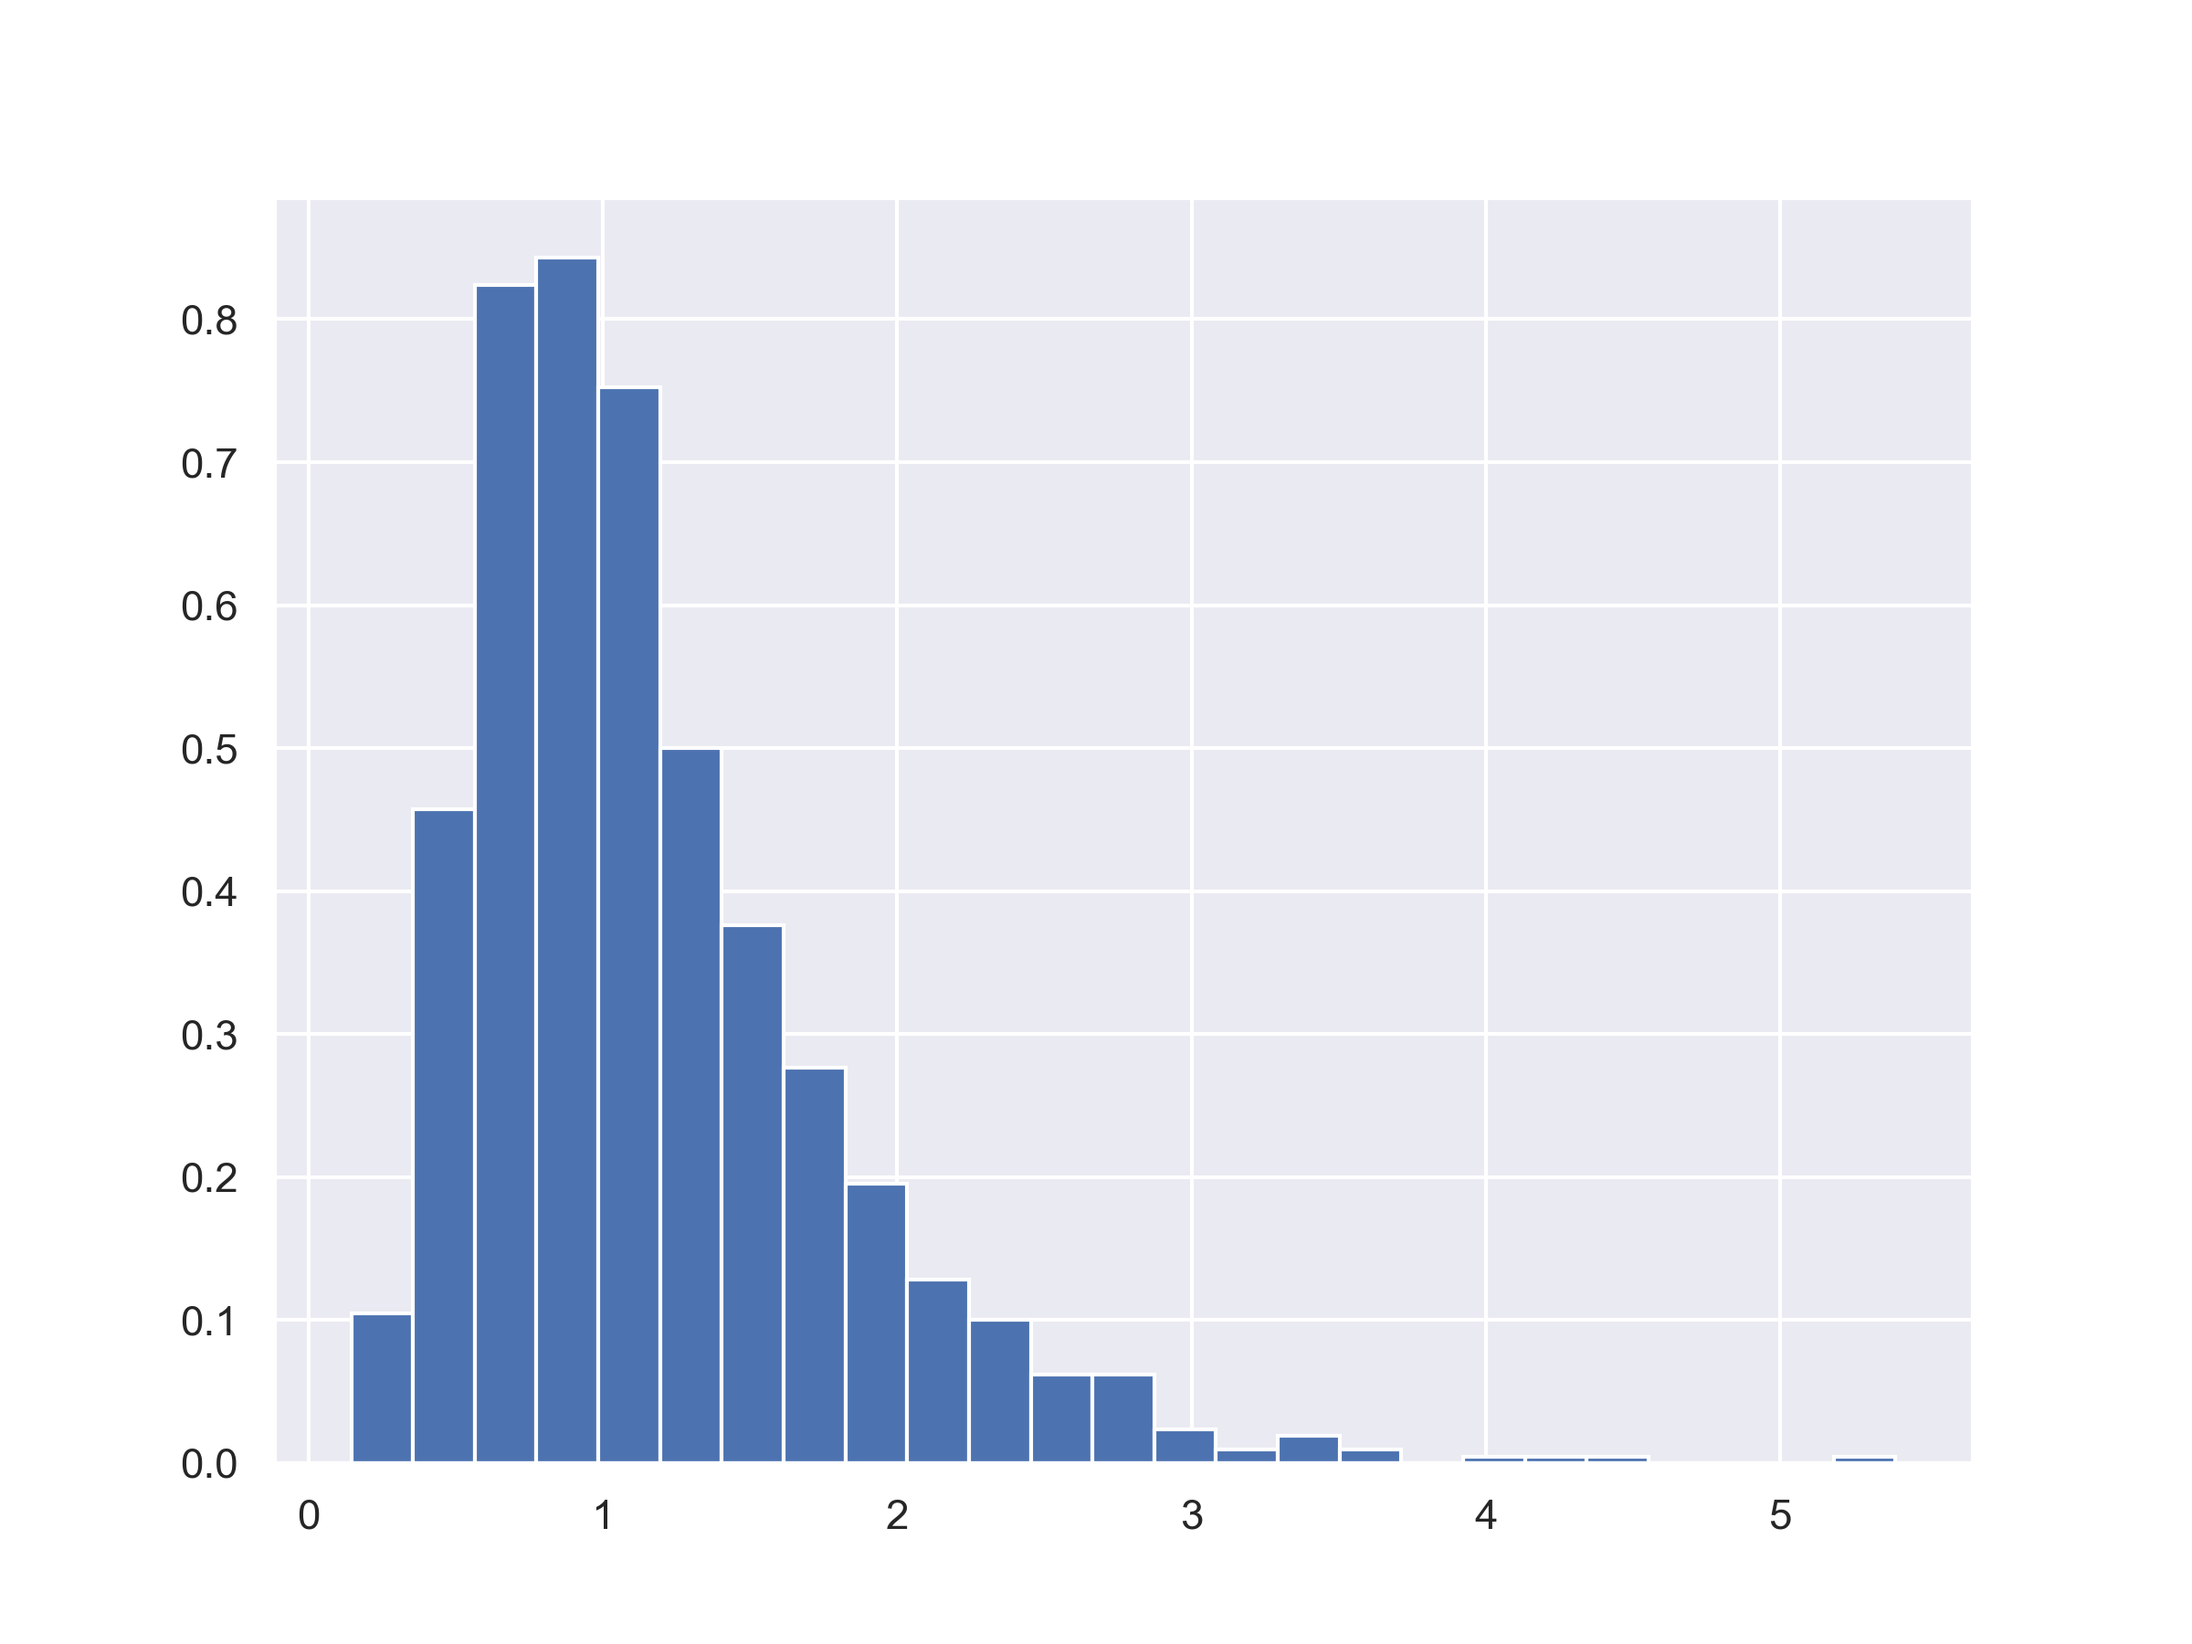
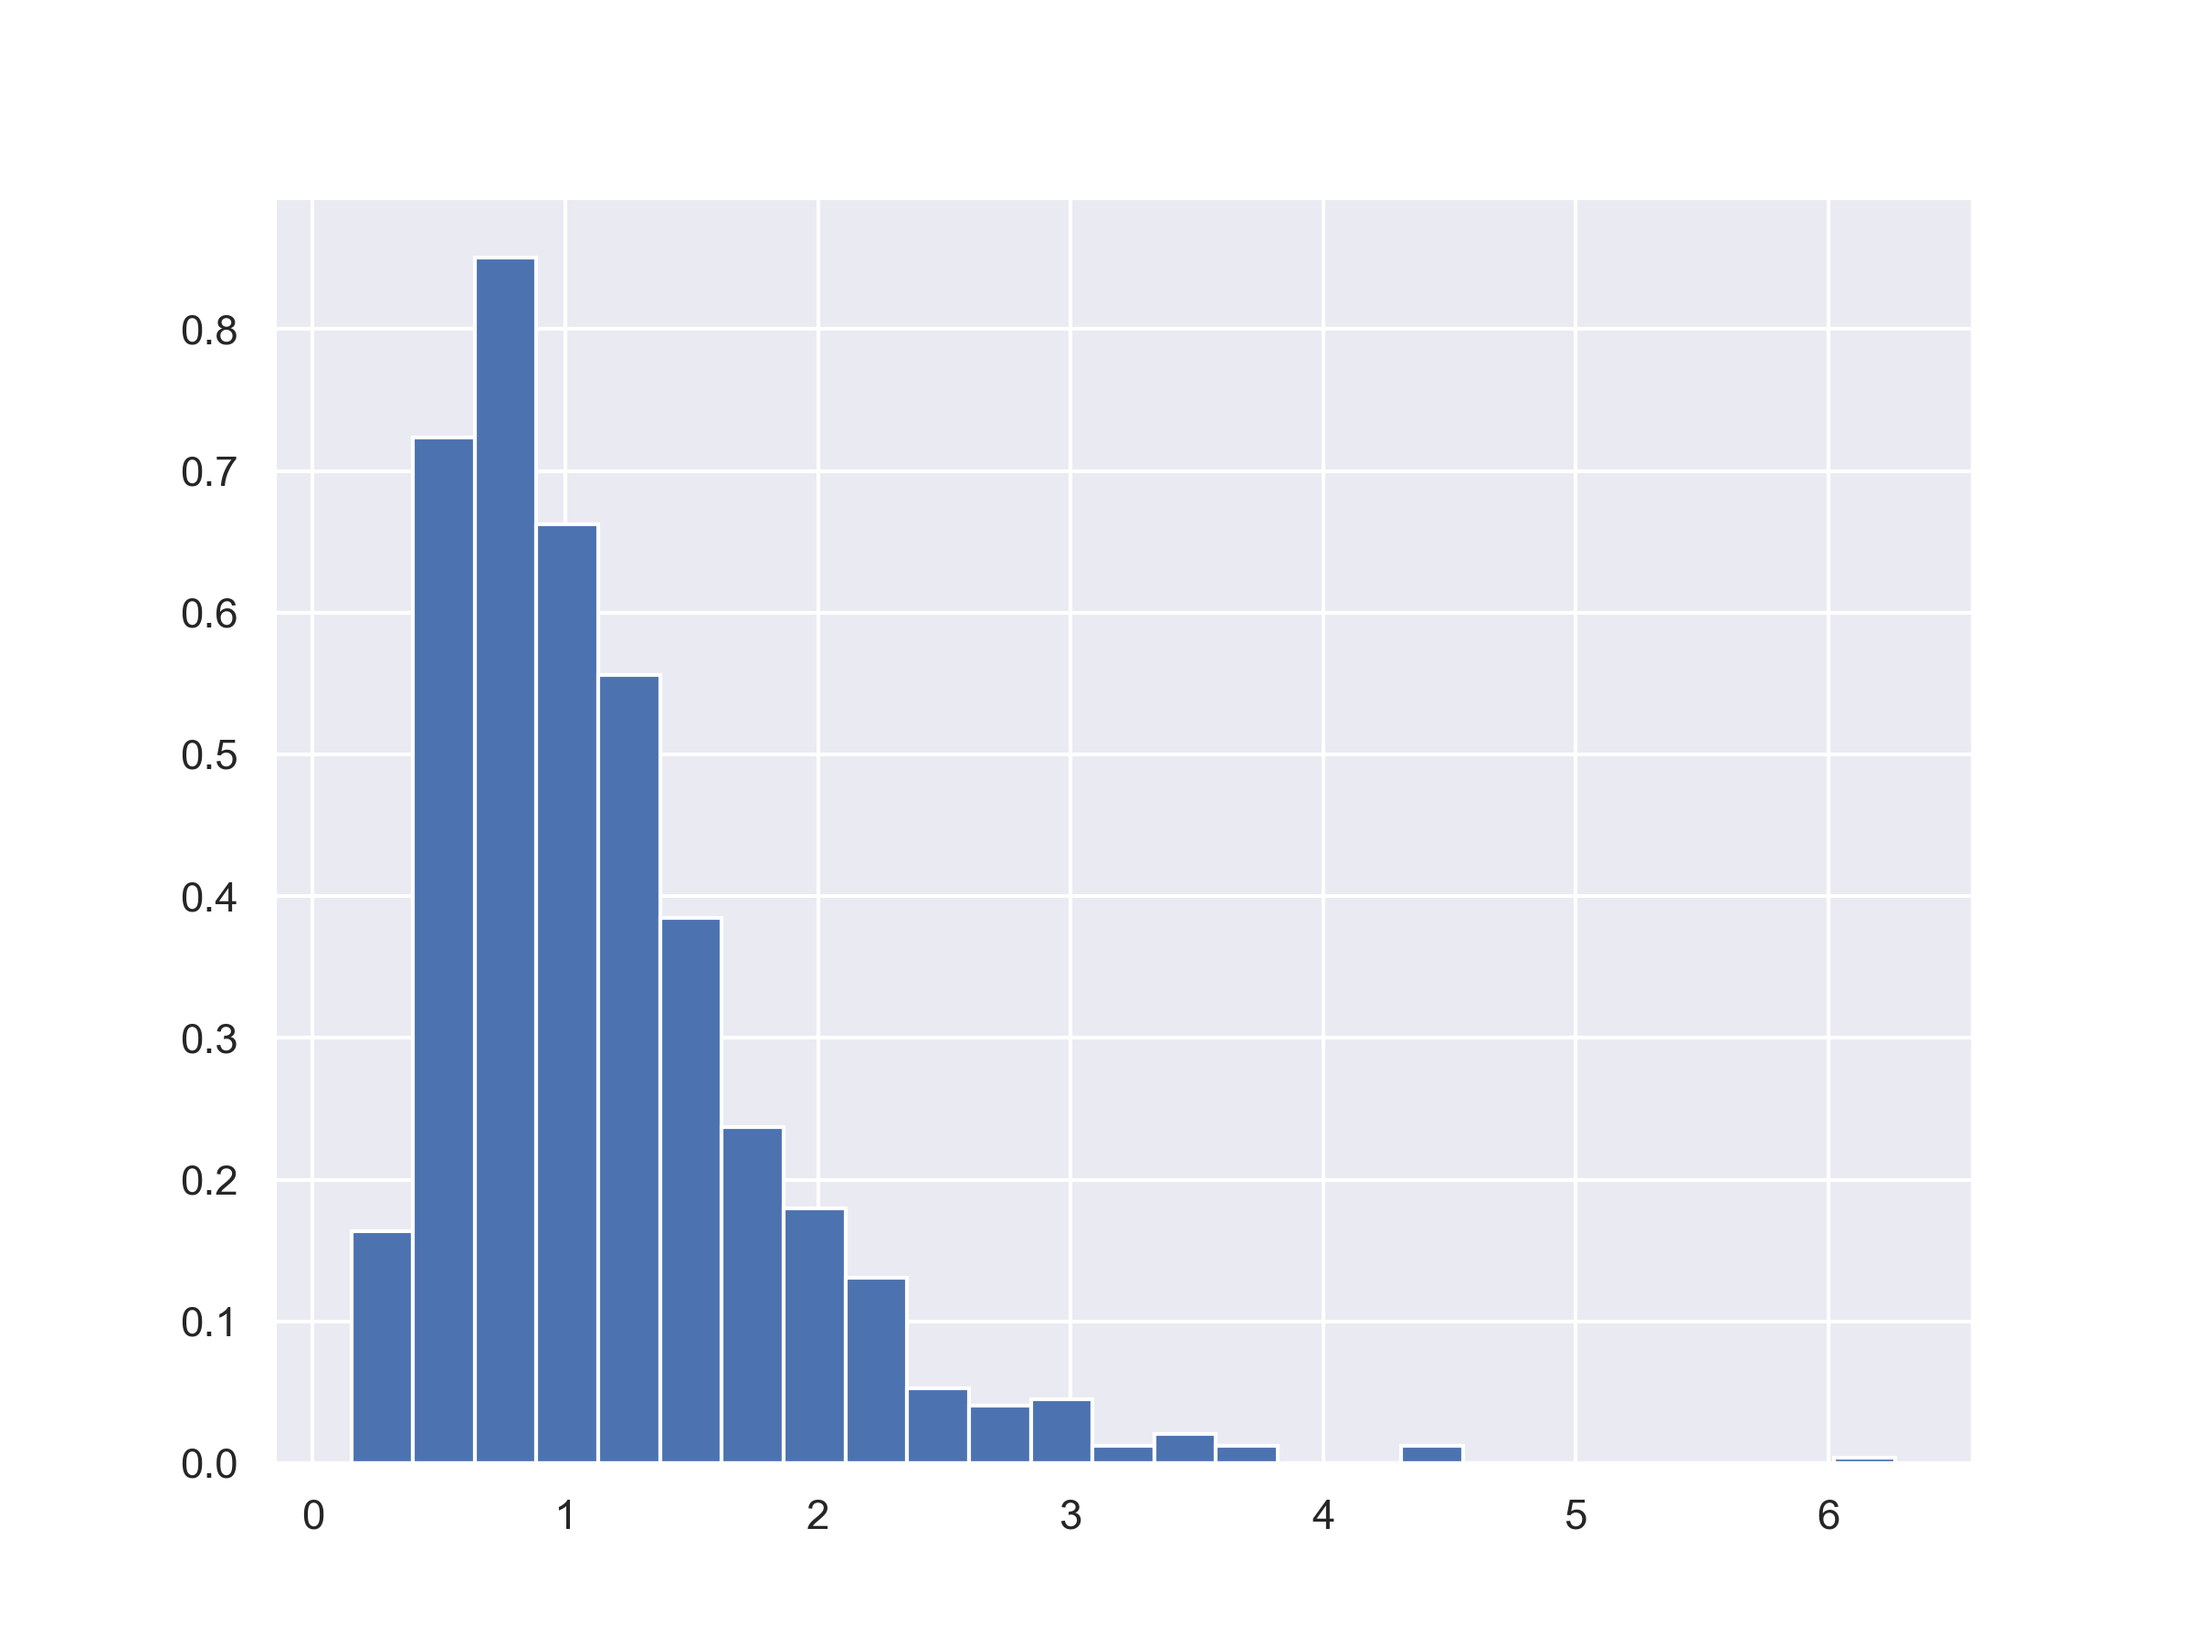
done up to Qestion 1

diff --git a/HW3/mtQuantMacro3.py b/HW3/mtQuantMacro3.py
@@ -21,6 +21,7 @@ from tabulate import tabulate
 from random import randrange, seed
 
 
+
 class SIMModel:
     def __init__(self,
                  rho       = 0.9900,
@@ -43,13 +44,25 @@ class SIMModel:
         self.Omega     = Omega
         self.age_list  = age_list
         self.n_samples = n_samples
-
-    def tauchen_discretize(self,
+        
+    def discretize(self, method,
                 is_save_y_grid = True,
-                is_save_trans_mat = True):
+                is_save_trans_mat = True): 
+        if method in ['tauchen', 'Tauchen', 'T', 't']:
+            print("\n Dscretizing the AR(1) process by Tauchen method")
+            self.tauchen_discretize(is_save_y_grid, is_save_trans_mat)
+        
+        elif method in ['rouwenhorst', 'Rouwenhorst', 'R', 'r']:
+            print("\n Dscretizing the AR(1) process by Rouwenhorst method")
+            self.rouwenhorst_discretize(is_save_y_grid, is_save_trans_mat)
+            
+        else:
+            raise Exception('"method" input much be "Tauchen" or "Rouwenhorst."')
+        
+        
+    def tauchen_discretize(self, is_save_y_grid, is_save_trans_mat):
         # Prepare y gird points
-        sig_y21 = np.sqrt(self.var_eps / (1-self.rho**2))
-        y_N     = self.Omega * sig_y21
+        y_N     = self.Omega * self.sig_y20
         y_grid  = np.linspace(-y_N, y_N, self.n_grids)
         Y_grid  = np.exp(y_grid)
 
@@ -78,9 +91,51 @@ class SIMModel:
             trans_mat_ij = ( norm.cdf((y_grid[j] - self.rho*y_grid[i] + h/2)/self.sig_eps)
                            - norm.cdf((y_grid[j] - self.rho*y_grid[i] - h/2)/self.sig_eps))
         return trans_mat_ij
+        
+        
+    def rouwenhorst_discretize(self, is_save_y_grid, is_save_trans_mat):
+        # Prepare y gird points
+        y_N     = self.sig_y20 * np.sqrt(self.n_grids - 1)
+        y_grid  = np.linspace(-y_N, y_N, self.n_grids)
+        Y_grid  = np.exp(y_grid)
+        
+        # Calculate the step size
+        h = (2 * y_N)/(self.n_grids-1)
+        
+        # parameter necessary for Rouwenhorst recursion
+        pi = 0.5 * (1 + self.rho)
+        
+        # N = 2
+        Pi_N = np.array([[pi, 1 - pi],
+                         [1 - pi, pi]])
+        
+        for n in range(3, self.n_grids+1, 1):
+            Pi_pre = deepcopy(Pi_N)
+            Pi_N1  = np.zeros((n,n))
+            Pi_N2  = np.zeros((n,n))
+            Pi_N3  = np.zeros((n,n))
+            Pi_N4  = np.zeros((n,n))
+            
+            Pi_N1[0:n-1, 0:n-1] = Pi_pre
+            Pi_N2[0:n-1, 1:n] = Pi_pre
+            Pi_N3[1:n, 1:n] = Pi_pre
+            Pi_N4[1:n, 0:n-1] = Pi_pre
+            
+            Pi_N = (pi * Pi_N1
+                    + (1 - pi) * Pi_N2
+                    + pi * Pi_N3
+                    + (1 - pi) * Pi_N4
+            )
+        
+        self.Y_grid = Y_grid
+        self.y_grid = y_grid
+        self.trans_mat = Pi_N
+        self.step_size = h
+
+        return y_grid, Pi_N
     
     
-    def run_simulation(self, fixed_seed=None):
+    def run_simulation(self, fname_header='model', fixed_seed=None):
         if fixed_seed != None:
             np.random.seed(fixed_seed)
         
@@ -93,7 +148,7 @@ class SIMModel:
         # -+-+-+-+-+-+-+-+-+-+-+-+-+-+-+-+-+-+-+-+-+-+-+-+-+-+-+-+-+-+-+-+-+-+
         fig0 = plt.figure(figsize=(8, 6))
         plt.hist(Y20_samples, bins=25, density=True)
-        fig0.savefig('Sample_histgram.png', dpi=300)
+        fig0.savefig(fname_header+'_Sample_histgram.png', dpi=300)
 
         
         # -+-+-+-+-+-+-+-+-+-+-+-+-+-+-+-+-+-+-+-+-+-+-+-+-+-+-+-+-+-+-+-+-+-+
@@ -119,7 +174,7 @@ class SIMModel:
         plt.vlines(1, 0, 1, color='black', linewidth = 0.5, 
                    linestyles='--')
         plt.legend(frameon = False)
-        fig1.savefig('Lorenz_Y20_original.png', dpi=300)
+        fig1.savefig(fname_header+'_Lorenz_Y20_original.png', dpi=300)
 
         # -+-+-+-+-+-+-+-+-+-+-+-+-+-+-+-+-+-+-+-+-+-+-+-+-+-+-+-+-+-+-+-+-+-+
         # Calculate the probability of each grid point
@@ -137,7 +192,7 @@ class SIMModel:
         fig2 = plt.figure(figsize=(8, 6))
         plt.bar(self.Y_grid, m20)
 
-        fig2.savefig('PDF_Y20.png', dpi=300)
+        fig2.savefig(fname_header+'_PDF_Y20.png', dpi=300)
 
         self.m20 = m20
         
@@ -158,7 +213,7 @@ class SIMModel:
         plt.vlines(1, 0, 1, color='black', linewidth = 0.5, 
                    linestyles='--')
         plt.legend(frameon = False)
-        fig3.savefig('Lorenz_Y20.png', dpi=300)
+        fig3.savefig(fname_header+'_Lorenz_Y20.png', dpi=300)
 
 
         # -+-+-+-+-+-+-+-+-+-+-+-+-+-+-+-+-+-+-+-+-+-+-+-+-+-+-+-+-+-+-+-+-+-+
@@ -203,7 +258,7 @@ class SIMModel:
         plt.vlines(1, 0, 1, color='black', linewidth = 0.5, 
                    linestyles='--')
         plt.legend(frameon = False)
-        fig4.savefig('Lorenz_groups.png', dpi=300)
+        fig4.savefig(fname_header+'_Lorenz_groups.png', dpi=300)
         
         # -+-+-+-+-+-+-+-+-+-+-+-+-+-+-+-+-+-+-+-+-+-+-+-+-+-+-+-+-+-+-+-+-+-+
         # Compute the Gini coefficient for each age
@@ -214,10 +269,11 @@ class SIMModel:
         self.Lorenz_by_age = Lorenz_by_age
         Gini_by_age =[self.discrete_Gini_index(Lorenz_by_age[a])
                       for a in range(n_ages)]
-        self.Gini_by_age =Gini_by_age
+        self.Gini_by_age = Gini_by_age
+        
         fig5 = plt.figure(figsize = (8, 6))
         plt.plot(self.age_list, Gini_by_age, color='red', lw = 3)
-        fig5.savefig('Gini_coefficients_by_age.png', dpi=300)
+        fig5.savefig(fname_header+'_Gini_coefficients_by_age.png', dpi=300)
         
     def discrete_Lorenz_curve(self, distribution):
         if type(distribution) is list:
@@ -249,3 +305,5 @@ class SIMModel:
         return Gini_index
         
         
+
+    

diff --git a/HW3/main.py b/HW3/main.py
@@ -15,9 +15,41 @@ Create Sep 20, 2022 (Masaki Tanaka, Washington University in St. Louis)
 """
 
 from mtQuantMacro3 import SIMModel
+import matplotlib.pyplot as plt
+import seaborn as sns
+sns.set()
 
-tauchen = SIMModel()
-tauchen.tauchen_discretize()
-tauchen.run_simulation()
+model_T = SIMModel()
+model_T.discretize(method='Tauchen')
+model_T.run_simulation(fname_header='Tauchen')
 
+model_R = SIMModel()
+model_R.discretize(method='Rouwenhorst')
+model_R.run_simulation(fname_header='Rouwenhorst')
+
+fig1 = plt.figure(figsize=(8, 6))
+plt.plot(model_T.age_list, model_T.Gini_by_age, 
+             color='blue', linestyle='dashed',
+             label='Tauchen')
+plt.plot(model_R.age_list, model_R.Gini_by_age, 
+             color='red', label='Rouwehhorst')
+fig1.savefig('Comparison_Gini.png', dpi=300)
+
+fig2 = plt.figure(figsize=(8, 6))
+plt.plot(model_T.Lorenz_by_age[-1][0], 
+         model_T.Lorenz_by_age[-1][0], 
+         '-', linewidth = 0.5, color = 'green', label='perfect equality')
+plt.plot(model_T.Lorenz_by_age[-1][0], 
+         model_T.Lorenz_by_age[-1][1], 
+         color='blue', linestyle='dashed',
+         label='Tauchen')
+plt.plot(model_R.Lorenz_by_age[-1][0], 
+         model_R.Lorenz_by_age[-1][1], 
+         color='red', label='Rouwehhorst')
+plt.hlines(0, 0, 1, color='black', linewidth = 0.5, 
+        linestyles='--', label='perfect inequality')
+plt.vlines(1, 0, 1, color='black', linewidth = 0.5, 
+        linestyles='--')
+plt.legend(frameon = False)
+fig2.savefig('Comparison_Lorenz_Y65.png', dpi=300)
 print('end')
